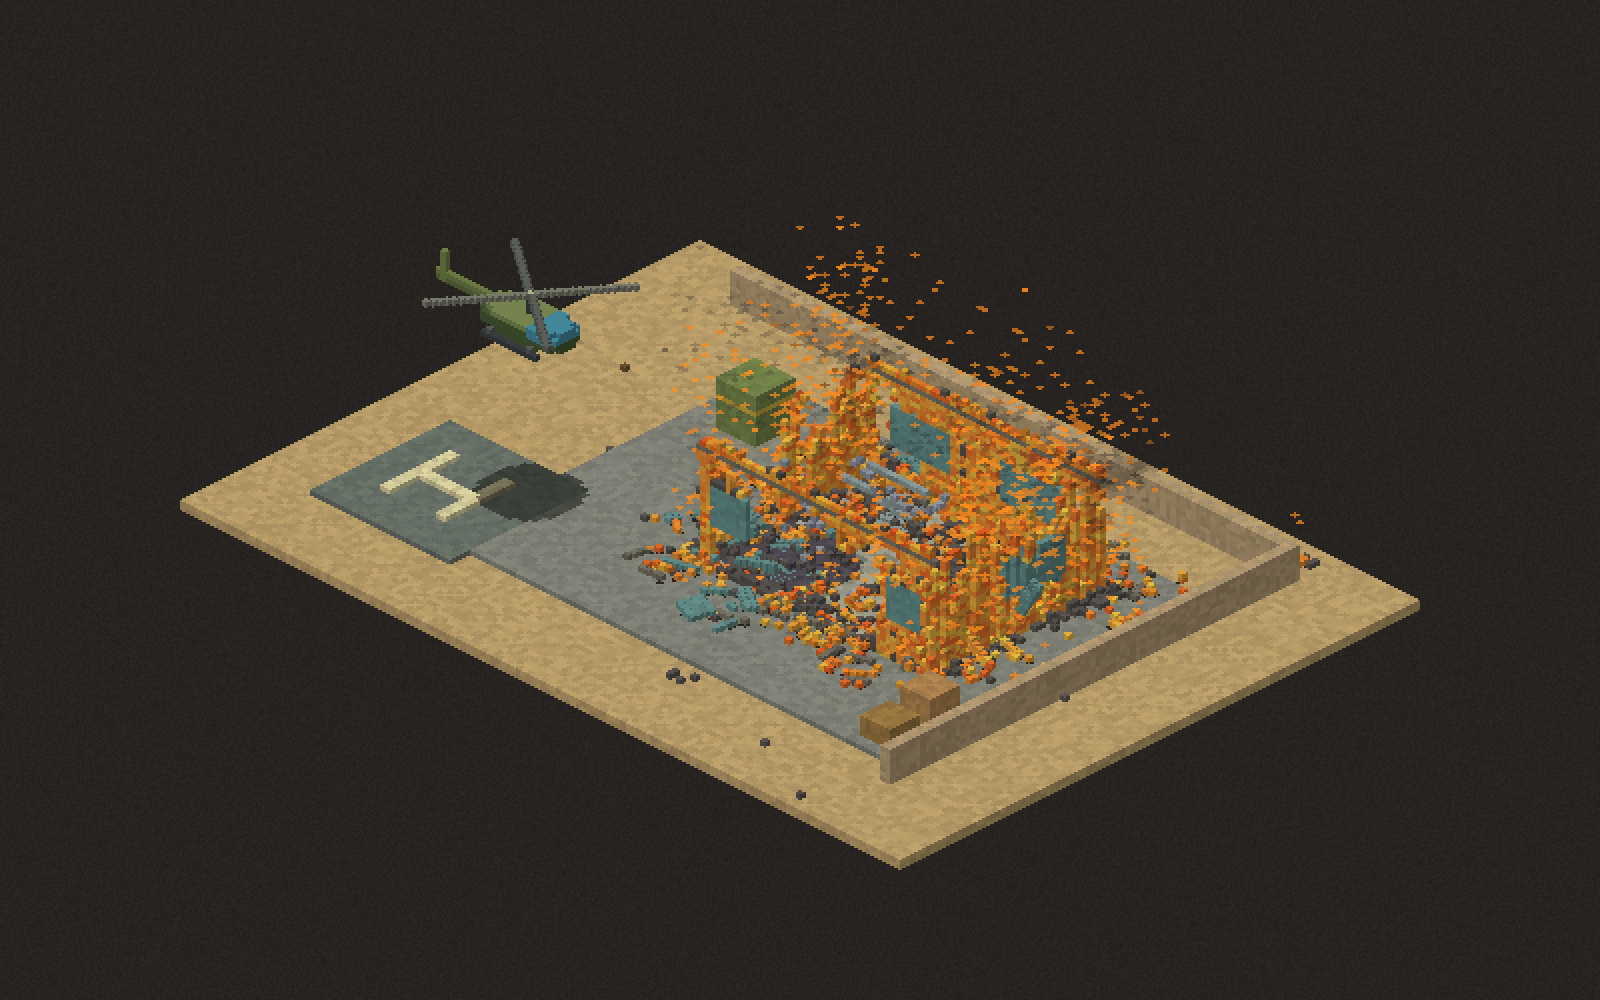
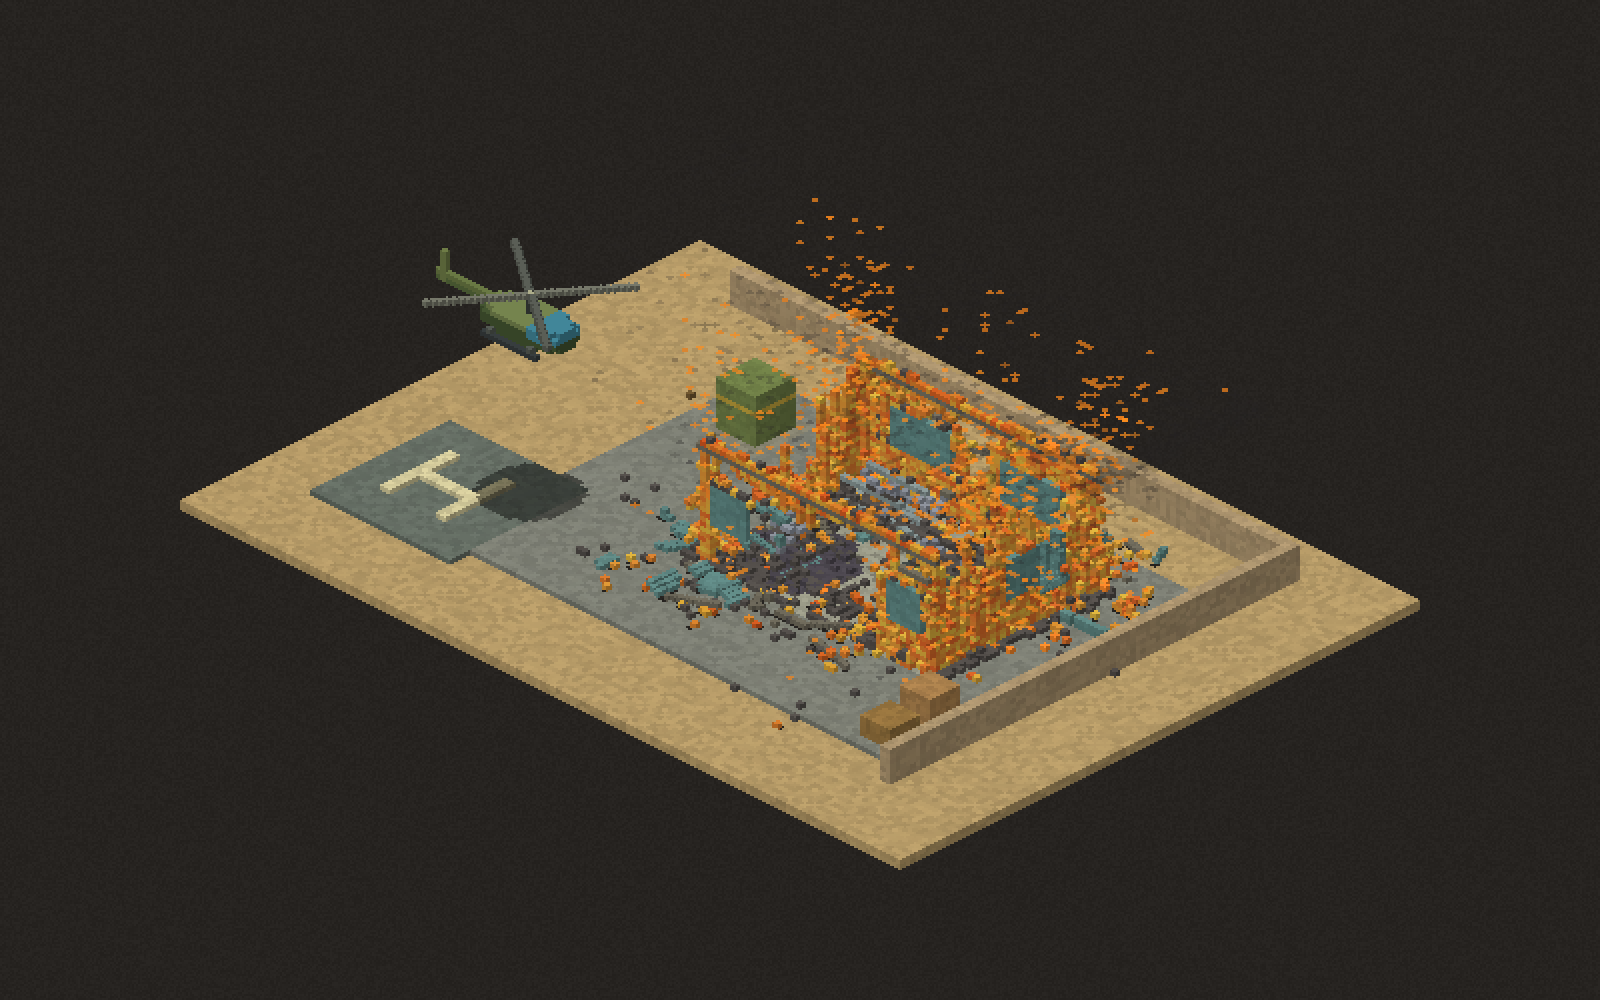
Vary reusable 3D fracture shapes with weighted crack regions

diff --git a/src/overhead/debris.rs b/src/overhead/debris.rs
@@ -15,6 +15,74 @@ pub struct Voxel {
     pub offset: Point,
     pub cell: BodyCell,
 }
+/// Configurable physical crack spacing, not visual particle scaling. Longer X
+/// spacing yields board-like pieces; jitter mixes large fragments and splinters.
+#[derive(Clone, Copy, Debug)]
+pub struct FractureSettings {
+    pub spacing: Point,
+    pub jitter: f32,
+    pub seed: u32,
+}
+impl Default for FractureSettings {
+    fn default() -> Self {
+        Self {
+            spacing: Point::new(7., 3.5, 7.),
+            jitter: 0.85,
+            seed: 73,
+        }
+    }
+}
+impl FractureSettings {
+    fn region(&self, p: Point, material: MatId, frame: u64) -> (MatId, i32, i32, i32) {
+        let safe = |x: f32, d: f32| if x.is_finite() { x.clamp(2., 16.) } else { d };
+        let scale = [
+            safe(self.spacing.x, 7.),
+            safe(self.spacing.y, 3.5),
+            safe(self.spacing.z, 7.),
+        ];
+        let q = [p.x / scale[0], p.y / scale[1], p.z / scale[2]];
+        let g = q.map(|v| v.floor() as i32);
+        let jitter = if self.jitter.is_finite() {
+            self.jitter.clamp(0., 1.)
+        } else {
+            0.85
+        };
+        let mut best = (f32::INFINITY, g[0], g[1], g[2]);
+        for z in g[2] - 1..=g[2] + 1 {
+            for y in g[1] - 1..=g[1] + 1 {
+                for x in g[0] - 1..=g[0] + 1 {
+                    let seed = (x as u32).wrapping_mul(73856093)
+                        ^ (y as u32).wrapping_mul(19349663)
+                        ^ (z as u32).wrapping_mul(83492791)
+                        ^ self.seed
+                        ^ (frame as u32).wrapping_mul(7919)
+                        ^ (material as u32).wrapping_mul(104729);
+                    let random = |n: u32| {
+                        let mut h = seed ^ n;
+                        h ^= h >> 16;
+                        h = h.wrapping_mul(0x7feb352d);
+                        h ^= h >> 15;
+                        h = h.wrapping_mul(0x846ca68b);
+                        h ^= h >> 16;
+                        h as f32 / u32::MAX as f32
+                    };
+                    let c = [
+                        x as f32 + 0.5 + (random(11) - 0.5) * jitter,
+                        y as f32 + 0.5 + (random(37) - 0.5) * jitter,
+                        z as f32 + 0.5 + (random(83) - 0.5) * jitter,
+                    ];
+                    let weight = 1. + (random(131) - 0.5) * jitter;
+                    let d = ((q[0] - c[0]).powi(2) + (q[1] - c[1]).powi(2) + (q[2] - c[2]).powi(2))
+                        / weight;
+                    if d < best.0 {
+                        best = (d, x, y, z);
+                    }
+                }
+            }
+        }
+        (material, best.1, best.2, best.3)
+    }
+}
 #[derive(Clone, Copy, Debug)]
 pub struct FragmentState {
     pub id: u64,
@@ -22,6 +90,7 @@ pub struct FragmentState {
     pub velocity: Point,
     pub spin: Point,
     pub cells: usize,
+    pub extent: Point,
     pub mass: f32,
     pub sleeping: bool,
 }
@@ -47,6 +116,7 @@ struct Terrain {
 /// All games can use this solver through `Volume::debris`. Velocities are in
 /// cells/second, spin in radians/second, masses in kg; world gravity is -Z.
 pub struct Debris {
+    pub fracture: FractureSettings,
     bodies: RigidBodySet,
     colliders: ColliderSet,
     islands: IslandManager,
@@ -120,6 +190,7 @@ impl Debris {
                 .friction(0.8),
         );
         Self {
+            fracture: FractureSettings::default(),
             bodies: RigidBodySet::new(),
             colliders,
             islands: IslandManager::new(),
@@ -166,6 +237,7 @@ impl Debris {
                     velocity: point(b.linvel() / CELL),
                     spin: point(b.angvel()),
                     cells: f.cells.iter().flatten().count(),
+                    extent: fragment_extent(&f.cells),
                     mass: b.mass(),
                     sleeping: b.is_sleeping(),
                 }
@@ -402,7 +474,7 @@ impl Debris {
     /// Lift every detached native section body into shared XYZ space. New
     /// pieces are grouped in small connected 3D chunks, never a whole facade.
     pub(crate) fn promote(&mut self, sections: &mut [Sim], m: &Materials, events: &[Explosion]) {
-        let mut bins = BTreeMap::<(i32, i32, i32), Vec<(Point, BodyCell, Point)>>::new();
+        let mut bins = BTreeMap::<(MatId, i32, i32, i32), Vec<(Point, BodyCell, Point)>>::new();
 
         for (y, s) in sections.iter_mut().enumerate() {
             for id in s.physics.ids() {
@@ -422,14 +494,9 @@ impl Debris {
                         y as f32 + 0.5,
                         self.height as f32 - (b.y + sin * lx + cos * ly),
                     );
-                    let key = (p.x.floor() as i32, p.y.floor() as i32, p.z.floor() as i32);
-                    bins.entry((
-                        key.0.div_euclid(4),
-                        key.1.div_euclid(4),
-                        key.2.div_euclid(6),
-                    ))
-                    .or_default()
-                    .push((p, c, Point::new(b.vx, 0., -b.vy)));
+                    bins.entry(self.fracture.region(p, c.mat, self.tick))
+                        .or_default()
+                        .push((p, c, Point::new(b.vx, 0., -b.vy)));
                 }
             }
         }
@@ -824,4 +891,16 @@ fn shape(cells: &[Option<Voxel>], m: &Materials) -> Option<(SharedShape, f32, f3
         friction / mass,
         bounce / mass,
     ))
+}
+
+fn fragment_extent(cells: &[Option<Voxel>]) -> Point {
+    let (mut lo, mut hi) = ([f32::INFINITY; 3], [f32::NEG_INFINITY; 3]);
+    for c in cells.iter().flatten() {
+        let p = [c.offset.x, c.offset.y, c.offset.z];
+        for k in 0..3 {
+            lo[k] = lo[k].min(p[k]);
+            hi[k] = hi[k].max(p[k]);
+        }
+    }
+    Point::new(hi[0] - lo[0] + 1., hi[1] - lo[1] + 1., hi[2] - lo[2] + 1.)
 }

diff --git a/tests/overhead_debris.rs b/tests/overhead_debris.rs
@@ -284,3 +284,62 @@ fn roof_panels_lift_clear_instead_of_wedging_in_the_blast_hole() {
         "a roof blast must eject real panels: max height {peak}"
     );
 }
+
+#[test]
+fn fracture_produces_a_mix_of_shapes_sizes_and_long_pieces() {
+    use std::collections::BTreeSet;
+    let m = mats();
+    let mut v = room(&m);
+    v.box_part(
+        "timber",
+        m.id("wood").unwrap(),
+        [6, 4, 2],
+        [28, 24, 18],
+        None,
+        &m,
+    );
+    for _ in 0..5 {
+        v.step(&m);
+    }
+    v.explode(Explosion {
+        at: Point::new(20., 16., 12.),
+        radius: 15.,
+        power: 30000.,
+        fire: None,
+    });
+    v.step(&m);
+    let states = v.debris.states();
+    let profiles: BTreeSet<_> = states
+        .iter()
+        .map(|s| {
+            (
+                (s.extent.x * 10.).round() as i32,
+                (s.extent.y * 10.).round() as i32,
+                (s.extent.z * 10.).round() as i32,
+                s.cells,
+            )
+        })
+        .collect();
+    let small = states.iter().map(|s| s.cells).min().unwrap();
+    let large = states.iter().map(|s| s.cells).max().unwrap();
+    assert!(
+        profiles.len() > 8,
+        "fracture needs varied physical silhouettes: {profiles:?}"
+    );
+    assert!(
+        large > small * 4,
+        "mix small splinters with larger chunks: {small}..{large}"
+    );
+    assert!(
+        states
+            .iter()
+            .any(|s| s.extent.x > s.extent.y * 2. && s.extent.x > 4.),
+        "include longer, narrow pieces"
+    );
+    assert!(
+        states
+            .iter()
+            .any(|s| (s.cells as f32) < s.extent.x * s.extent.y * s.extent.z * 0.7),
+        "include irregular shapes, not only cuboids"
+    );
+}

diff --git a/docs/FLIGHT-LAB.md b/docs/FLIGHT-LAB.md
@@ -63,3 +63,10 @@ Collision cuboids are greedily merged, retaining material mass, friction and bou
 The shared solver uses [Rapier 3D](https://rapier.rs/docs/user_guides/rust/getting_started/) alongside the existing Rapier 2D section solver. Rigid rubble is 3D; static support detection remains section-based. Secondary impact-driven re-fracture, 3D liquids and overhead save/rewind remain future work.
 
 ![Roof pieces crossing sections](flight-test-scatter.png)
+
+
+### Fracture variety
+
+Fracture regions now use weighted, jittered 3D crack centres rather than fixed 4 × 4 × 6 cuts. This produces unequal silhouettes and volumes, including long narrow pieces and smaller irregular fragments. Connected pieces remain separate, and material boundaries separate wood from metal. Existing paint and thermal state stay on each cell.
+
+Other games can configure `volume.debris.fracture` (`FractureSettings`) with XYZ crack spacing, jitter and a deterministic seed. Defaults favor longer pieces along X, with substantial size variation. `FragmentState::extent` reports each piece's local dimensions. The geometry-distribution test checks varied profiles, a large size range, elongated pieces and non-cuboid silhouettes, alongside all existing collision/material tests.
